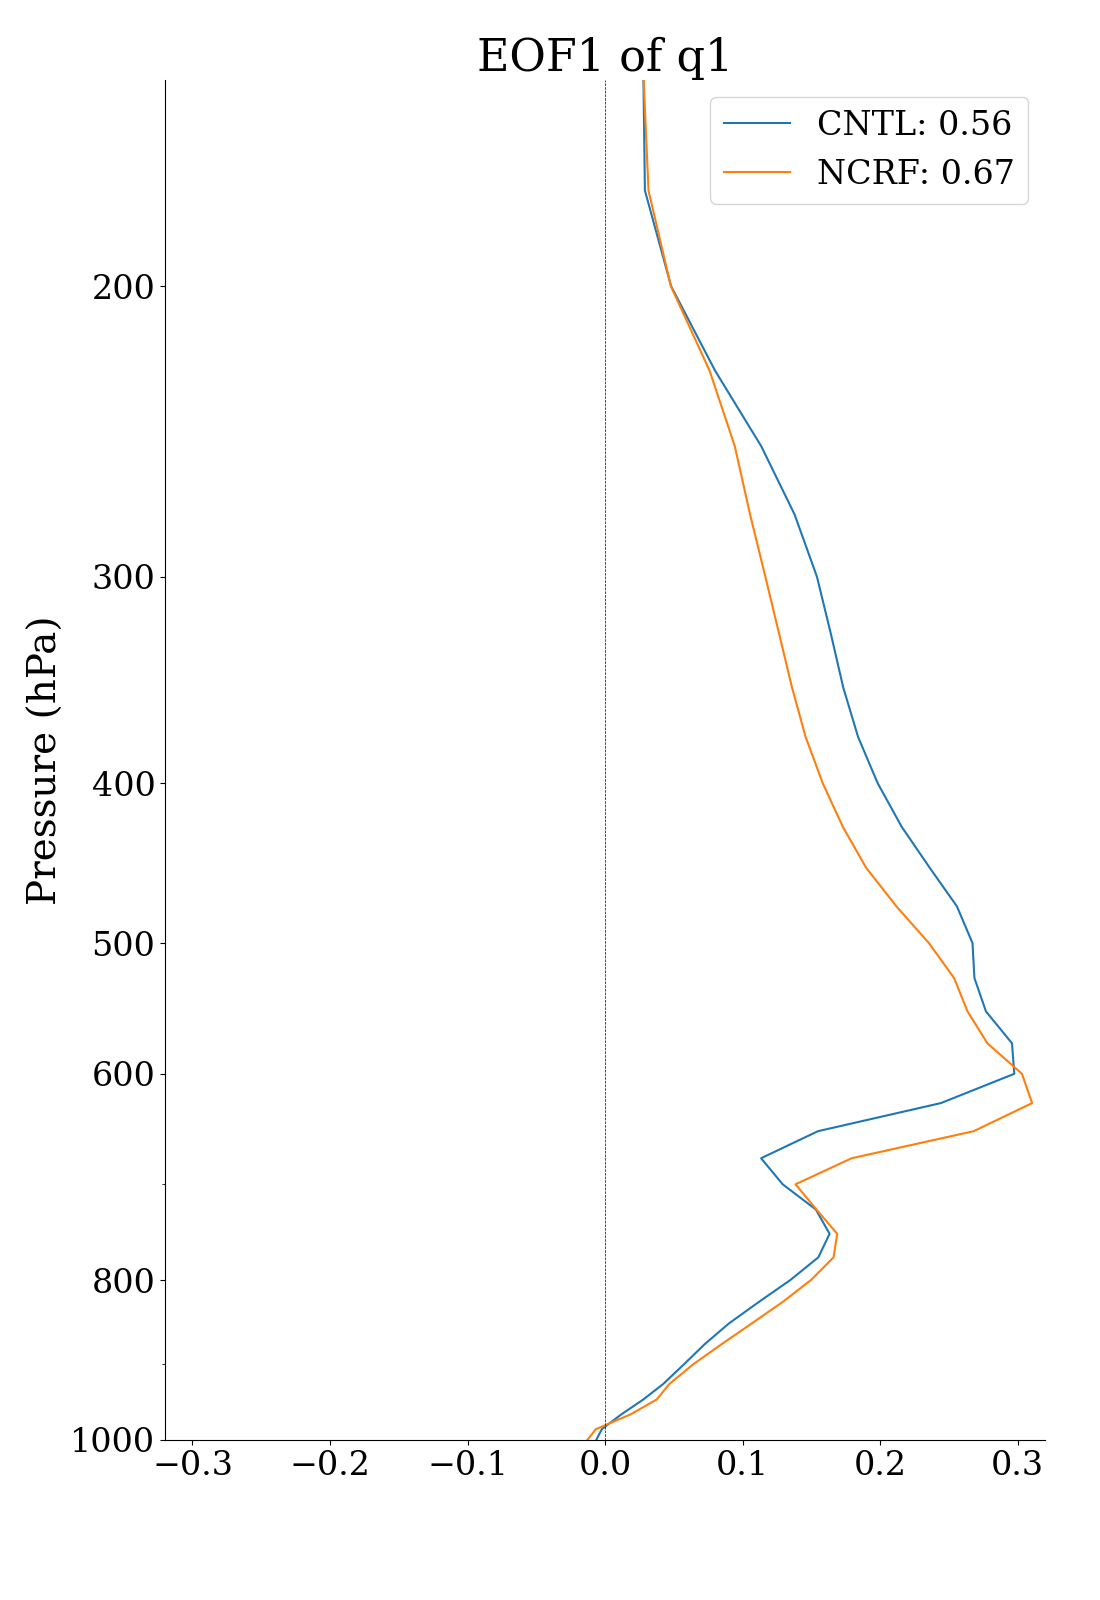
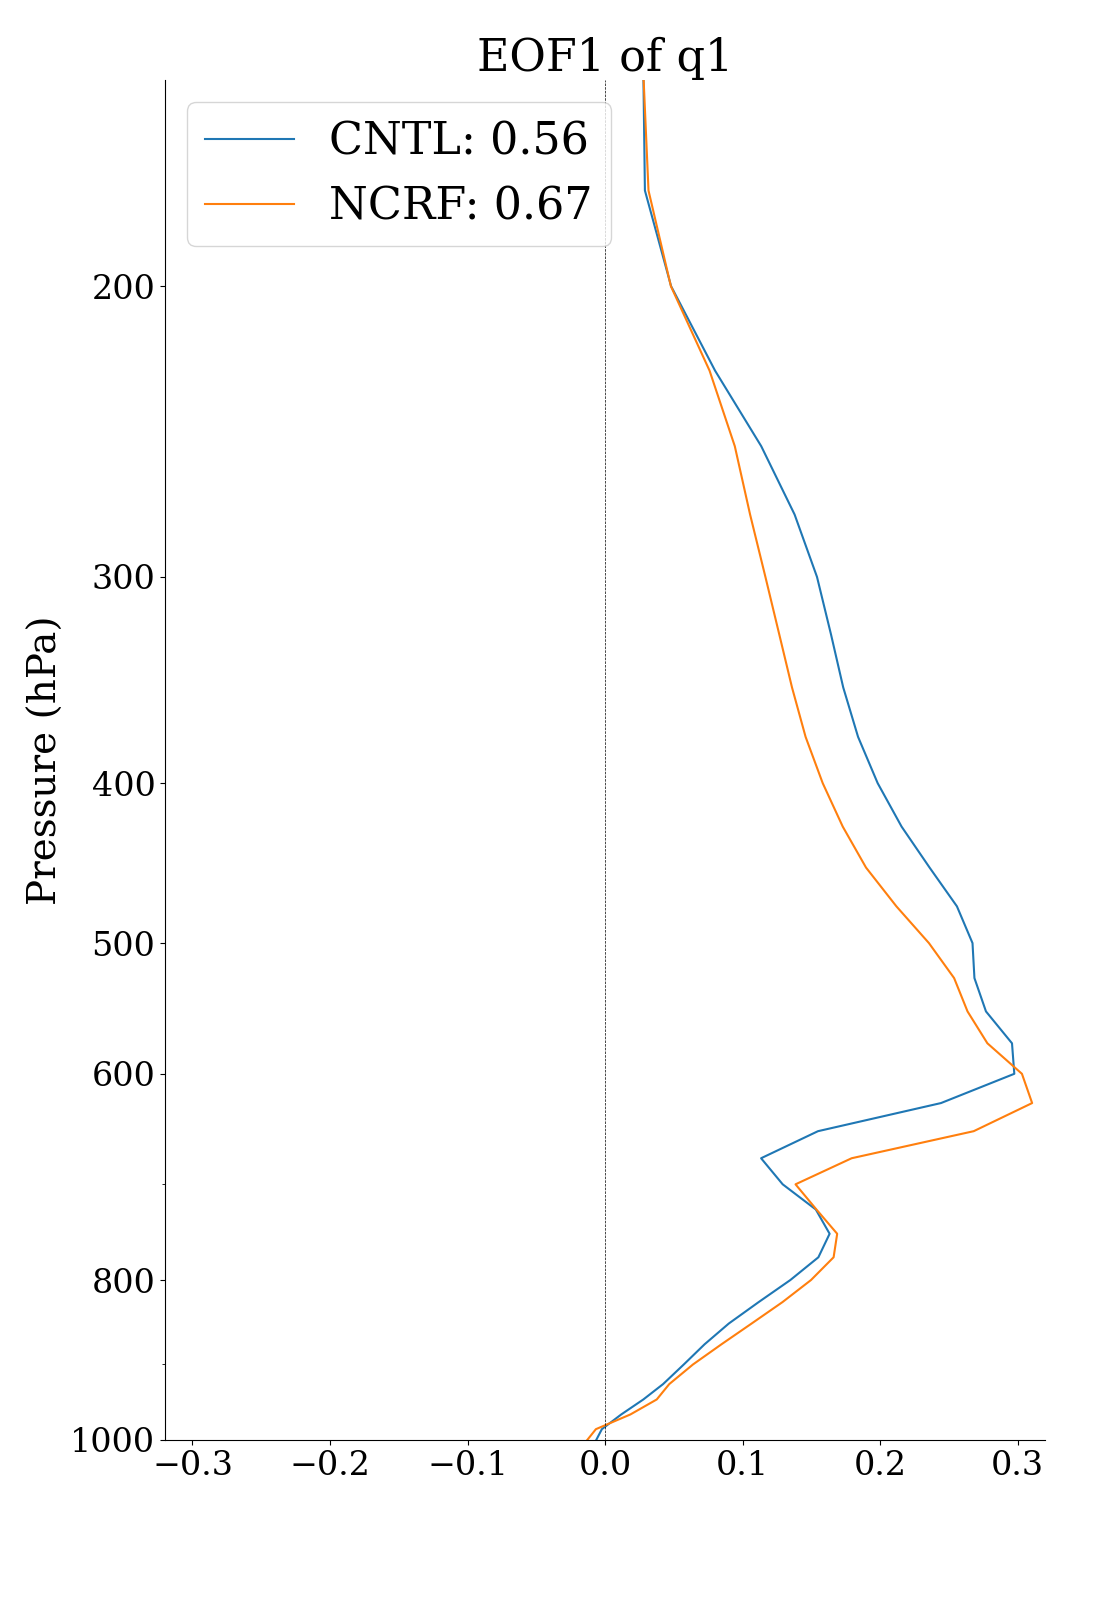
003AT20250720 MODIFY: enlarge text in EOF figures
Time: 2025-07-20 17:05 (UTC+8)
Editor: Yu-Chuan Kan
objective: outstanding EOF figures with larger text for better readability

diff --git a/Code/EOF.py b/Code/EOF.py
@@ -65,7 +65,7 @@ def main():
     axes.spines["right"].set_visible(False)
     plt.axvline(0, color="k", linewidth=0.5, linestyle="--")
     plt.yscale("log")
-    plt.legend()
+    plt.legend(fontsize=32)
     plt.yticks([200, 300, 400, 500, 600, 800, 1000],
                 ["200", "300", "400", "500", "600", "800", "1000"]
                 )
@@ -86,7 +86,7 @@ def main():
     axes.spines["right"].set_visible(False)
     plt.axvline(0, color="k", linewidth=0.5, linestyle="--")
     plt.yscale("log")
-    plt.legend()
+    plt.legend(fontsize=32)
     plt.yticks([200, 300, 400, 500, 600, 800, 1000],
                 ["200", "300", "400", "500", "600", "800", "1000"]
                 )
